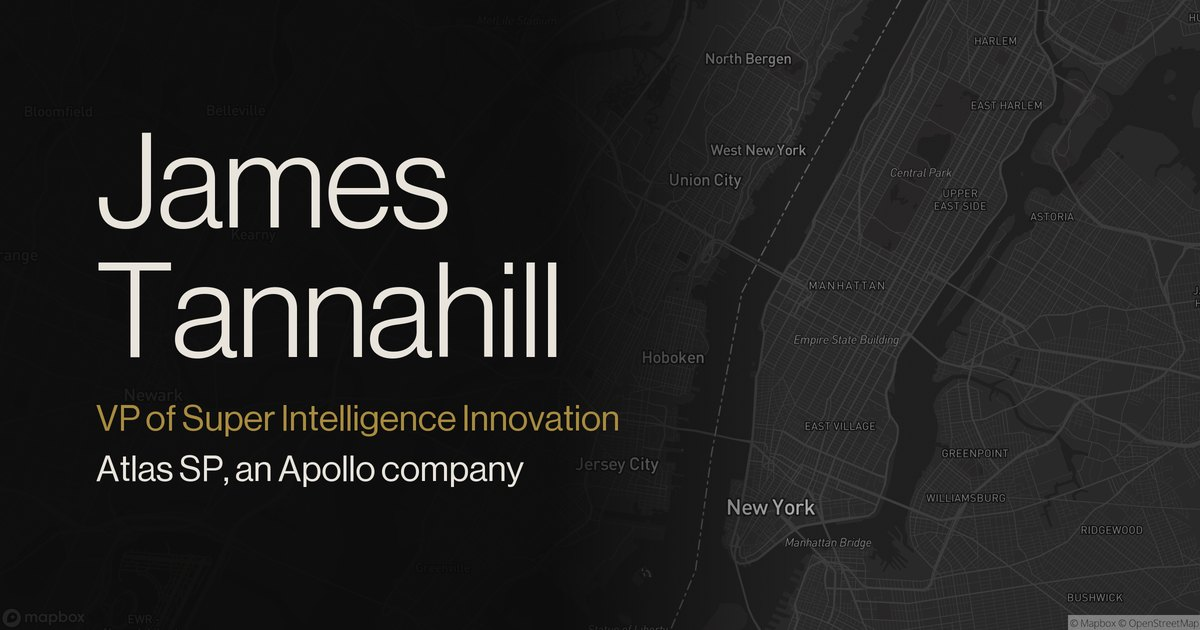
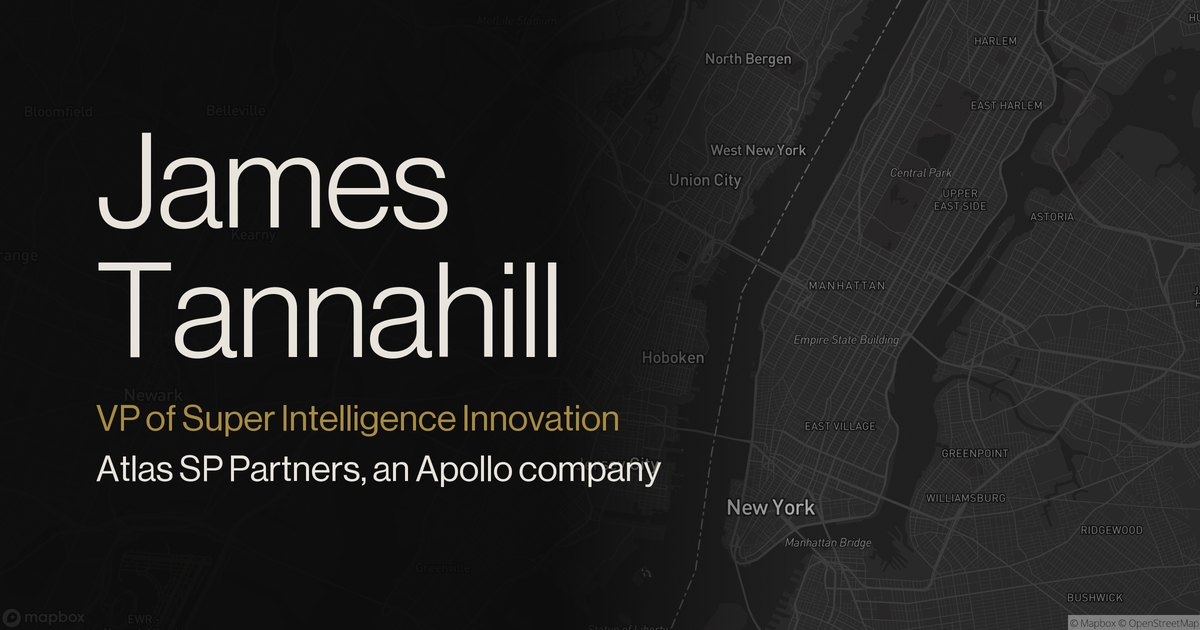
Company name: Atlas SP Partners (legalName ATLAS SP Partners, L.P.)
Card eyebrow, titles, meta, vCard ORG, MECARD, Wallet pass ATTACHED TO, NFC
page, llms, both link images (?v=7) and schema (name Atlas SP Partners,
legalName ATLAS SP Partners, L.P.). sw jt-v14.

Changed region(s): [[0.185, 0.7238, 0.555, 0.7841]]

diff --git a/contact.html b/contact.html
@@ -3,23 +3,23 @@
 <head>
   <meta charset="UTF-8">
   <meta name="viewport" content="width=device-width, initial-scale=1.0, viewport-fit=cover">
-  <title>James Tannahill | VP of SI Innovation at Atlas SP</title>
-  <meta name="description" content="James Tannahill. VP of Super Intelligence Innovation at Atlas SP, an Apollo company. Private Equity, Healthcare Intelligence, AI Infrastructure.">
-  <meta property="og:title" content="James Tannahill | VP of SI Innovation at Atlas SP">
-  <meta property="og:description" content="VP of Super Intelligence Innovation at Atlas SP, an Apollo company. Private Equity. Healthcare Intelligence. AI Infrastructure.">
+  <title>James Tannahill | VP of SI Innovation at Atlas SP Partners</title>
+  <meta name="description" content="James Tannahill. VP of Super Intelligence Innovation at Atlas SP Partners, an Apollo company. Private Equity, Healthcare Intelligence, AI Infrastructure.">
+  <meta property="og:title" content="James Tannahill | VP of SI Innovation at Atlas SP Partners">
+  <meta property="og:description" content="VP of Super Intelligence Innovation at Atlas SP Partners, an Apollo company. Private Equity. Healthcare Intelligence. AI Infrastructure.">
   <meta property="og:type" content="website">
   <meta property="og:url" content="https://contact.jamestannahill.com/">
-  <meta property="og:image" content="https://contact.jamestannahill.com/og-image.png?v=6">
+  <meta property="og:image" content="https://contact.jamestannahill.com/og-image.png?v=7">
   <meta property="og:image:type" content="image/png">
   <meta property="og:image:width" content="1200">
   <meta property="og:image:height" content="630">
-  <meta property="og:image:alt" content="James Tannahill, VP of Super Intelligence Innovation at Atlas SP, an Apollo company">
+  <meta property="og:image:alt" content="James Tannahill, VP of Super Intelligence Innovation at Atlas SP Partners, an Apollo company">
   <meta property="og:site_name" content="James Tannahill">
   <meta name="twitter:card" content="summary_large_image">
-  <meta name="twitter:image" content="https://contact.jamestannahill.com/og-image.png?v=6">
-  <meta name="twitter:image:alt" content="James Tannahill, VP of Super Intelligence Innovation at Atlas SP, an Apollo company">
-  <meta name="twitter:title" content="James Tannahill | VP of SI Innovation at Atlas SP">
-  <meta name="twitter:description" content="VP of Super Intelligence Innovation at Atlas SP, an Apollo company. Private Equity. Healthcare Intelligence. AI Infrastructure.">
+  <meta name="twitter:image" content="https://contact.jamestannahill.com/og-image.png?v=7">
+  <meta name="twitter:image:alt" content="James Tannahill, VP of Super Intelligence Innovation at Atlas SP Partners, an Apollo company">
+  <meta name="twitter:title" content="James Tannahill | VP of SI Innovation at Atlas SP Partners">
+  <meta name="twitter:description" content="VP of Super Intelligence Innovation at Atlas SP Partners, an Apollo company. Private Equity. Healthcare Intelligence. AI Infrastructure.">
   <meta name="robots" content="noindex, nofollow">
   <meta name="author" content="James Tannahill">
   <link rel="icon" type="image/svg+xml" href="/favicon.svg">
@@ -41,10 +41,10 @@
     "@id": "https://jamestannahill.com/#person",
     "name": "James Tannahill",
     "jobTitle": "VP of Super Intelligence Innovation",
-    "worksFor": { "@type": "Organization", "name": "ATLAS SP Partners, L.P.", "alternateName": ["ATLAS SP Partners", "ATLAS SP", "Atlas SP"], "url": "https://www.atlas-sp.com", "parentOrganization": { "@type": "Organization", "name": "Apollo Global Management", "alternateName": "Apollo", "url": "https://www.apollo.com" } },
+    "worksFor": { "@type": "Organization", "name": "Atlas SP Partners", "legalName": "ATLAS SP Partners, L.P.", "alternateName": ["ATLAS SP Partners", "ATLAS SP", "Atlas SP"], "url": "https://www.atlas-sp.com", "parentOrganization": { "@type": "Organization", "name": "Apollo Global Management", "alternateName": "Apollo", "url": "https://www.apollo.com" } },
     "memberOf": { "@type": "Organization", "name": "YPO", "url": "https://www.ypo.org" },
     "alumniOf": { "@type": "Organization", "name": "SpaceX Super Intelligence", "alternateName": "SpaceXSI" },
-    "description": "VP of Super Intelligence Innovation @ Atlas SP, an Apollo company | AI & ML for Capital Markets | YPO. Formerly AI/ML for Capital Markets at SpaceX Super Intelligence and President and Managing Partner, Plocamium Holdings.",
+    "description": "VP of Super Intelligence Innovation @ Atlas SP Partners, an Apollo company | AI & ML for Capital Markets | YPO. Formerly AI/ML for Capital Markets at SpaceX Super Intelligence and President and Managing Partner, Plocamium Holdings.",
     "url": "https://jamestannahill.com",
     "sameAs": ["https://www.linkedin.com/in/jamesstannahill"],
     "email": "contact@jamestannahill.com"
@@ -444,7 +444,7 @@
 
     <!-- HERO -->
     <header class="hero">
-      <p class="hero-eyebrow"><span>VP of Super Intelligence Innovation</span> <span>Atlas SP, an Apollo company</span></p>
+      <p class="hero-eyebrow"><span>VP of Super Intelligence Innovation</span> <span>Atlas SP Partners, an Apollo company</span></p>
       <h1 class="hero-name">James<br>Tannahill</h1>
     </header>
 

diff --git a/map/index.html b/map/index.html
@@ -4,25 +4,25 @@
   <meta charset="UTF-8">
   <meta name="viewport" content="width=device-width, initial-scale=1.0, viewport-fit=cover">
   <title>James Tannahill · New York</title>
-  <meta name="description" content="James Tannahill. VP of Super Intelligence Innovation at Atlas SP, an Apollo company. Private Equity, Healthcare Intelligence, AI Infrastructure. New York City.">
+  <meta name="description" content="James Tannahill. VP of Super Intelligence Innovation at Atlas SP Partners, an Apollo company. Private Equity, Healthcare Intelligence, AI Infrastructure. New York City.">
   <meta property="og:title" content="James Tannahill · New York">
-  <meta property="og:description" content="VP of Super Intelligence Innovation at Atlas SP, an Apollo company. Private Equity. Healthcare Intelligence. AI Infrastructure.">
+  <meta property="og:description" content="VP of Super Intelligence Innovation at Atlas SP Partners, an Apollo company. Private Equity. Healthcare Intelligence. AI Infrastructure.">
   <meta property="og:type" content="website">
   <meta property="og:url" content="https://map.jamestannahill.com/">
-  <meta property="og:image" content="https://map.jamestannahill.com/og-image.jpg?v=6">
+  <meta property="og:image" content="https://map.jamestannahill.com/og-image.jpg?v=7">
   <meta property="og:image:type" content="image/jpeg">
   <meta property="og:image:width" content="1200">
   <meta property="og:image:height" content="630">
-  <meta property="og:image:alt" content="James Tannahill, VP of Super Intelligence Innovation at Atlas SP, an Apollo company, over a dark map of New York">
+  <meta property="og:image:alt" content="James Tannahill, VP of Super Intelligence Innovation at Atlas SP Partners, an Apollo company, over a dark map of New York">
   <meta property="og:site_name" content="James Tannahill">
   <meta name="theme-color" content="#0A0A0A">
   <meta name="color-scheme" content="dark">
   <link rel="manifest" href="/manifest.json">
   <meta name="twitter:card" content="summary_large_image">
-  <meta name="twitter:image" content="https://map.jamestannahill.com/og-image.jpg?v=6">
-  <meta name="twitter:image:alt" content="James Tannahill, VP of Super Intelligence Innovation at Atlas SP, an Apollo company, over a dark map of New York">
+  <meta name="twitter:image" content="https://map.jamestannahill.com/og-image.jpg?v=7">
+  <meta name="twitter:image:alt" content="James Tannahill, VP of Super Intelligence Innovation at Atlas SP Partners, an Apollo company, over a dark map of New York">
   <meta name="twitter:title" content="James Tannahill · New York">
-  <meta name="twitter:description" content="VP of Super Intelligence Innovation at Atlas SP, an Apollo company. Private Equity. Healthcare Intelligence. AI Infrastructure.">
+  <meta name="twitter:description" content="VP of Super Intelligence Innovation at Atlas SP Partners, an Apollo company. Private Equity. Healthcare Intelligence. AI Infrastructure.">
   <meta name="robots" content="index, follow">
   <meta name="author" content="James Tannahill">
   <link rel="icon" type="image/png" href="/favicon.png">
@@ -61,10 +61,10 @@
     "name": "James Tannahill",
     "url": "https://jamestannahill.com",
     "jobTitle": "VP of Super Intelligence Innovation",
-    "worksFor": { "@type": "Organization", "name": "ATLAS SP Partners, L.P.", "alternateName": ["ATLAS SP Partners", "ATLAS SP", "Atlas SP"], "url": "https://www.atlas-sp.com", "parentOrganization": { "@type": "Organization", "name": "Apollo Global Management", "alternateName": "Apollo", "url": "https://www.apollo.com" } },
+    "worksFor": { "@type": "Organization", "name": "Atlas SP Partners", "legalName": "ATLAS SP Partners, L.P.", "alternateName": ["ATLAS SP Partners", "ATLAS SP", "Atlas SP"], "url": "https://www.atlas-sp.com", "parentOrganization": { "@type": "Organization", "name": "Apollo Global Management", "alternateName": "Apollo", "url": "https://www.apollo.com" } },
     "memberOf": { "@type": "Organization", "name": "YPO", "url": "https://www.ypo.org" },
     "alumniOf": { "@type": "Organization", "name": "SpaceX Super Intelligence", "alternateName": "SpaceXSI" },
-    "description": "VP of Super Intelligence Innovation @ Atlas SP, an Apollo company | AI & ML for Capital Markets | YPO. Formerly AI/ML for Capital Markets at SpaceX Super Intelligence and President and Managing Partner, Plocamium Holdings."
+    "description": "VP of Super Intelligence Innovation @ Atlas SP Partners, an Apollo company | AI & ML for Capital Markets | YPO. Formerly AI/ML for Capital Markets at SpaceX Super Intelligence and President and Managing Partner, Plocamium Holdings."
     }
     ]
   }

diff --git a/card.js b/card.js
@@ -92,7 +92,7 @@
   document.getElementById('saveContact')?.addEventListener('click', () => showToast('Contact card downloaded'));
 
   // ── QR ────────────────────────────────────────────────────────────────
-  const MECARD = 'MECARD:N:Tannahill,James;ORG:Atlas SP;TITLE:VP of SI Innovation;EMAIL:contact@jamestannahill.com;URL:https://jamestannahill.com;NOTE:Signal preferred;;';
+  const MECARD = 'MECARD:N:Tannahill,James;ORG:Atlas SP Partners;TITLE:VP of SI Innovation;EMAIL:contact@jamestannahill.com;URL:https://jamestannahill.com;NOTE:Signal preferred;;';
 
   // Draw on whole device pixels: each module is an integer number of
   // physical pixels and the CSS size matches the bitmap exactly, so the

diff --git a/add.html b/add.html
@@ -230,7 +230,7 @@
   <div class="card">
     <div class="tag">wallet pass</div>
     <div class="name">James Tannahill</div>
-    <div class="title">VP of Super Intelligence Innovation &middot; Atlas SP, an Apollo company</div>
+    <div class="title">VP of Super Intelligence Innovation &middot; Atlas SP Partners, an Apollo company</div>
     <div class="divider"></div>
 
     <!-- iOS Safari: direct wallet add -->

diff --git a/sw.js b/sw.js
@@ -2,7 +2,7 @@
 // Pages are network-first (a role or title change shows on the next visit);
 // static assets are cache-first. Bump CACHE on every deploy.
 
-const CACHE = 'jt-v13';
+const CACHE = 'jt-v14';
 const PRECACHE = [
   '/',
   '/card.js',

diff --git a/generate-og.py b/generate-og.py
@@ -24,7 +24,7 @@ SCALE = 2
 W, H = 1200, 630
 
 ROLE = "VP of Super Intelligence Innovation"
-EMPLOYER = "Atlas SP, an Apollo company"
+EMPLOYER = "Atlas SP Partners, an Apollo company"
 FIRST, LAST = "James", "Tannahill"
 
 MONO_BOLD = OG / "fonts" / "JetBrainsMono-Bold.ttf"

diff --git a/DESIGN.md b/DESIGN.md
@@ -76,7 +76,7 @@ Scope: this document governs the contact card only (`contact.html`). The reposit
 - Toast: `ink` bar with a red top rule, bottom-centered, `role="status"` with polite live announcements, auto-dismissed after 2.5s. Use it as the single feedback channel for download and reveal feedback.
 - Focus: every focusable element shows `:focus-visible { outline: 2px solid var(--ink); outline-offset: -2px; }`.
 - Link row dividers are 1px `rule` on every row except the last row of `#links`; the actions grid draws its own top rule.
-- The current role is VP of Super Intelligence Innovation at Atlas SP, an Apollo company, shown only as the hero eyebrow.
+- The current role is VP of Super Intelligence Innovation at Atlas SP Partners, an Apollo company, shown only as the hero eyebrow.
 - Hover states apply only under `(hover: hover) and (pointer: fine)`; touch devices get `:active` feedback instead. Keep new hover rules inside that query.
 
 ## Do's and Don'ts
